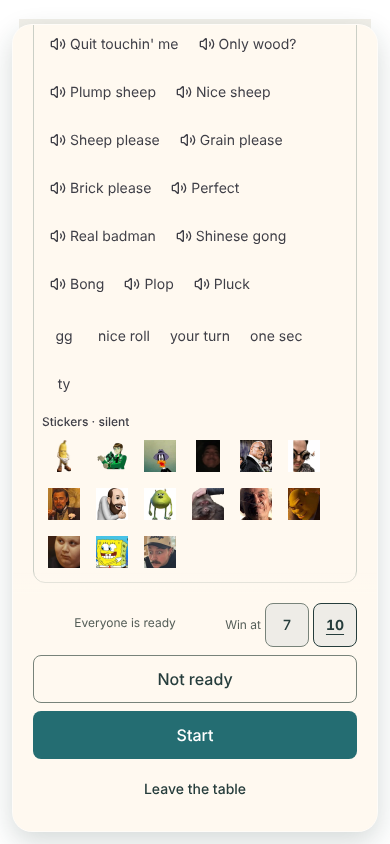
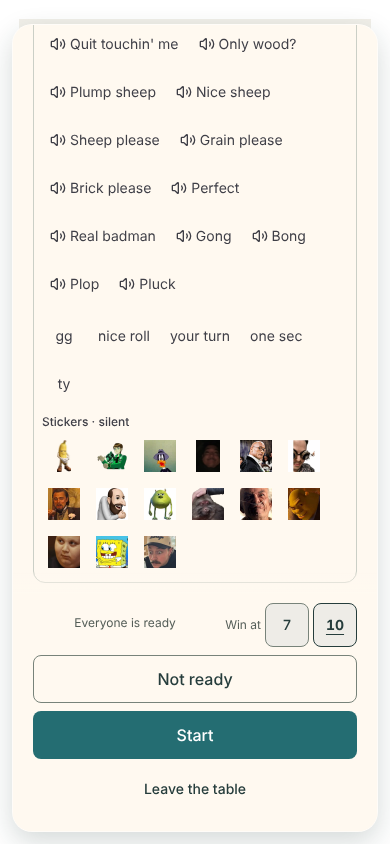
Rename gong clip to Gong
Claude-Session: https://claude.ai/code/session_01QF6k7BAZGXPRJP8G2BziaC

diff --git a/src/components/game/Reactions.tsx b/src/components/game/Reactions.tsx
@@ -22,7 +22,7 @@ const SOUNDBOARD = [
   { id: "sb_brick_please", label: "Brick please" },
   { id: "sb_perfect", label: "Perfect" },
   { id: "sb_real_badman", label: "Real badman" },
-  { id: "sb_shinese_gong", label: "Shinese gong" },
+  { id: "sb_gong", label: "Gong" },
   { id: "bong", label: "Bong" },
   { id: "plop", label: "Plop" },
   { id: "pluck", label: "Pluck" },

diff --git a/src/lib/sound-extra.ts b/src/lib/sound-extra.ts
@@ -11,7 +11,7 @@ export const EXTRA_FILES = {
   sb_grain_please: "sb_grain_please.mp3",
   sb_brick_please: "sb_brick_please.mp3",
   sb_real_badman: "sb_real_badman.mp3",
-  sb_shinese_gong: "sb_shinese_gong.mp3",
+  sb_gong: "sb_gong.mp3",
   tap_pasture: "tap_pasture.mp3",
 } as const;
 

diff --git a/README.md b/README.md
@@ -345,7 +345,7 @@ Full rules: **[docs/FRAMEWORK.md](docs/FRAMEWORK.md)**. In short:
 - `sb_perfect.mp3` (approved 2026-10-24)
 - `three_wood.mp3`, `daking_wood.mp3`, `sheep_for_wood.mp3`, `stone_for_wood.mp3`, `corn_no.mp3`, `lucke_diggler.mp3`, `isaac_win.mp3`
 - `tap_pasture.mp3` (CC0, OpenGameArt)
-- `sb_nice_sheep.mp3`, `sb_sheep_please.mp3`, `sb_grain_please.mp3`, `sb_brick_please.mp3`, `sb_real_badman.mp3`, `sb_shinese_gong.mp3` (approved 2026-10-25)
+- `sb_nice_sheep.mp3`, `sb_sheep_please.mp3`, `sb_grain_please.mp3`, `sb_brick_please.mp3`, `sb_real_badman.mp3`, `sb_gong.mp3` (approved 2026-10-25)
 
 ---
 
@@ -370,7 +370,7 @@ WebSocket JSON. The client sends intents. The server answers with `state` or `er
 | `{type:"rob", hexId, stealFrom}` `{type:"discard", cards}` | After a 7 |
 | `{type:"tradeBank", give, take}` `{type:"tradeAsk", give, want}` `{type:"tradeAnswer", tradeId, yes}` | Trades. A `tradeAsk` is refused to the asker alone, with "Bad trade." (`give` or `want` is not a bag of known resources), "You lack those goods." or "Offer something." (both bags empty). A new ask closes the open one with `tradeClosed`. |
 | `{type:"chat", text}` | One chat line, lobby or game (200 chars, rate-limited) |
-| `{type:"sound", id}` | A soundboard tap over the chat path: `id` is one of `robbed_fah` ("Fah"), `sb_wololo` ("Wololo"), `sb_win_reaction` ("GG!"), `sb_airhorn` ("Airhorn"), `sb_quit_touchin` ("Quit touchin' me"), `sb_only_wood` ("Only wood?"), `sb_perfect` ("Perfect"), `sb_plump_sheep` ("Plump sheep"), `sb_nice_sheep` ("Nice sheep"), `sb_sheep_please` ("Sheep please"), `sb_grain_please` ("Grain please"), `sb_brick_please` ("Brick please"), `sb_real_badman` ("Real badman"), `sb_shinese_gong` ("Shinese gong"), `bong`, `plop`, `pluck` (the clips are in public/audio; the host relays only a whitelisted id). Same chat bucket as `chat`, plus one tap per seat every `SOUND_MS` (default 3000); a seat's renames are paced the same way by `RENAME_MS` (default 2000, "Slow down."). Errors: "Unknown sound.", "Slow down.". Every seat gets `chat` with `sound:id` and `text:"🔊 Label"` (shown as the chip "Ember 🔊 Fah"; kept in the room's chat history, which a late joiner sees without hearing it); each page plays the clip unless that listener has muted. |
+| `{type:"sound", id}` | A soundboard tap over the chat path: `id` is one of `robbed_fah` ("Fah"), `sb_wololo` ("Wololo"), `sb_win_reaction` ("GG!"), `sb_airhorn` ("Airhorn"), `sb_quit_touchin` ("Quit touchin' me"), `sb_only_wood` ("Only wood?"), `sb_perfect` ("Perfect"), `sb_plump_sheep` ("Plump sheep"), `sb_nice_sheep` ("Nice sheep"), `sb_sheep_please` ("Sheep please"), `sb_grain_please` ("Grain please"), `sb_brick_please` ("Brick please"), `sb_real_badman` ("Real badman"), `sb_gong` ("Gong"), `bong`, `plop`, `pluck` (the clips are in public/audio; the host relays only a whitelisted id). Same chat bucket as `chat`, plus one tap per seat every `SOUND_MS` (default 3000); a seat's renames are paced the same way by `RENAME_MS` (default 2000, "Slow down."). Errors: "Unknown sound.", "Slow down.". Every seat gets `chat` with `sound:id` and `text:"🔊 Label"` (shown as the chip "Ember 🔊 Fah"; kept in the room's chat history, which a late joiner sees without hearing it); each page plays the clip unless that listener has muted. |
 | `{type:"react", emote, to}` | A reaction image, `to` a seat or player id or omitted |
 
 | Host → client | Meaning |
